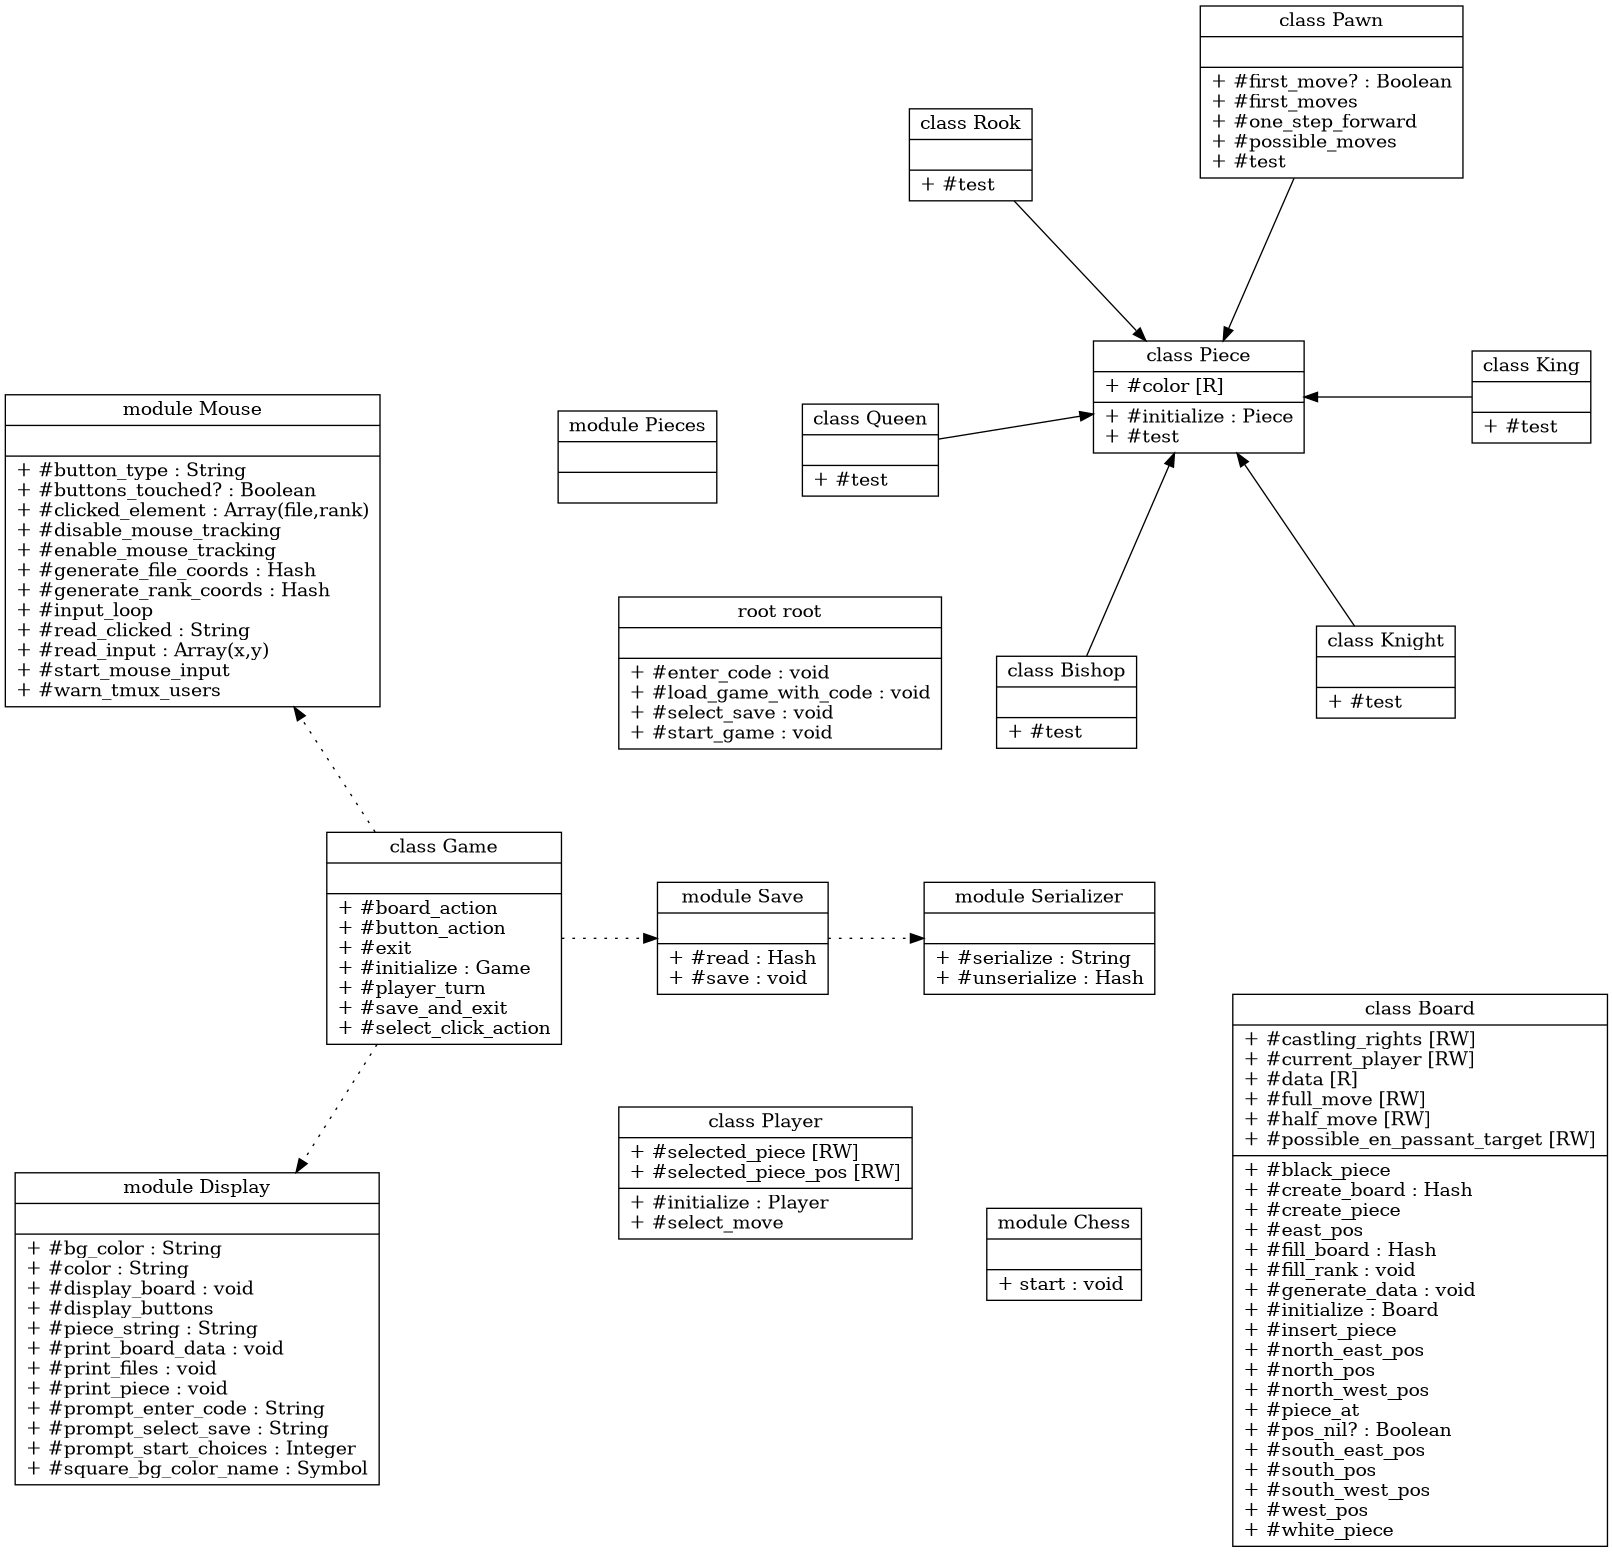
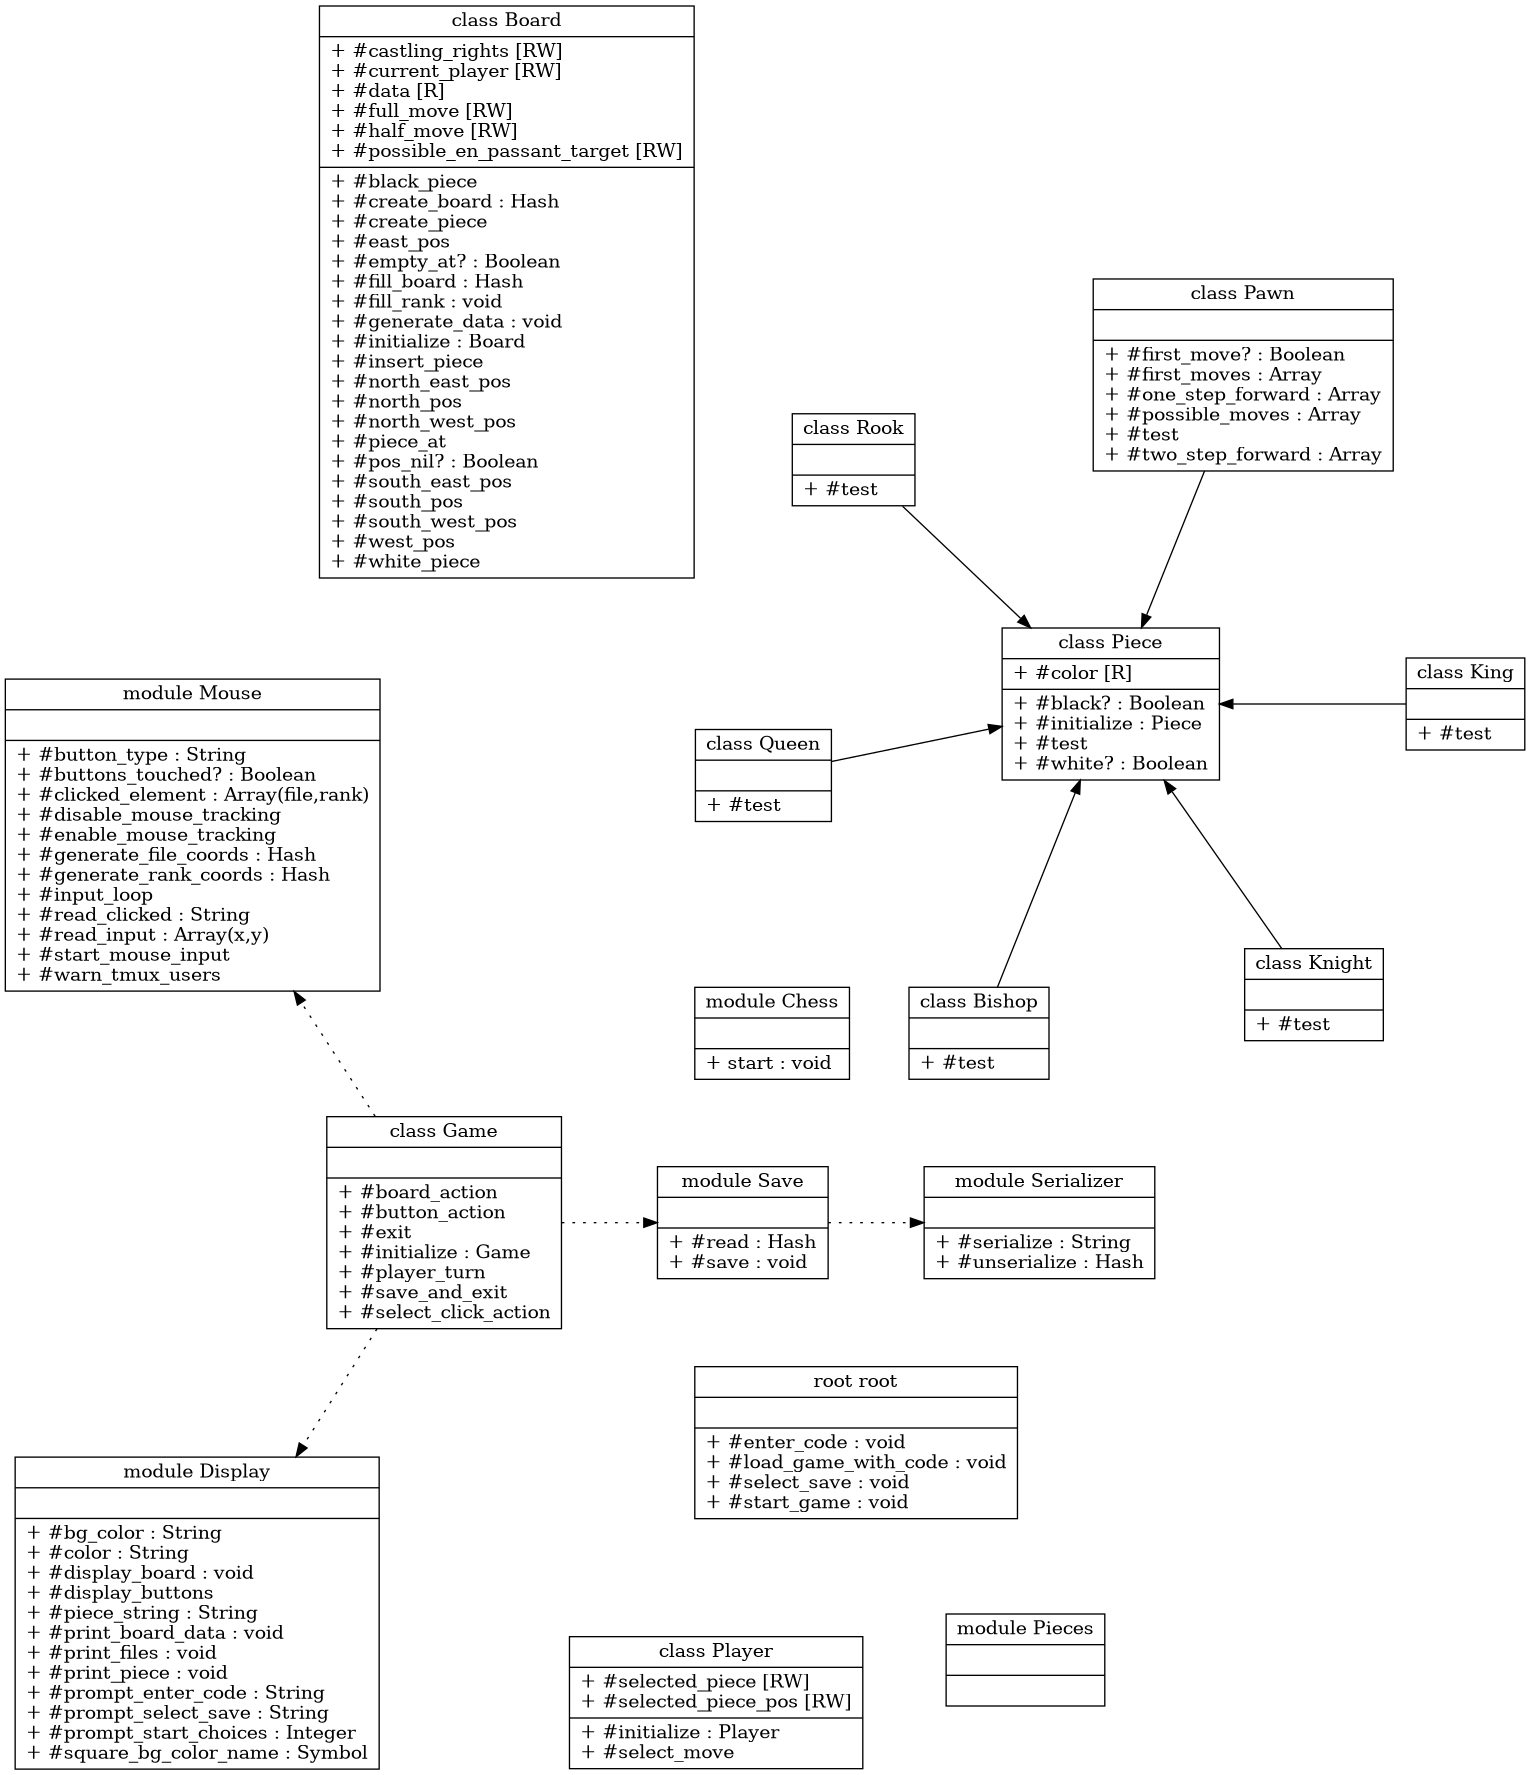
refactor(lib): modularize the the white? and black? color check and empty_board?

diff --git a/lib/chess/pieces/pawn.rb b/lib/chess/pieces/pawn.rb
@@ -10,6 +10,11 @@ module Chess
         puts 'hello world'
       end
 
+      # possible_moves of the pawn
+      # @example x and y are decomposed from array
+      #   possible_moves(board,['a',2])
+      # @param board [Chess::Board]
+      # @return [Array] moves
       def possible_moves(board, (file, rank))
         moves = []
         if first_move?(rank)
@@ -22,25 +27,48 @@ module Chess
         moves
       end
 
+      # checks if it's first move of pawn
+      # @param rank [Integer]
+      # @return [Boolean]
       def first_move?(rank)
-        (rank == 2 && @color == 'white') || (rank == 7 && @color == 'black')
+        (rank == 2 && white?) || (rank == 7 && black?)
       end
 
+      # creates all the possible first moves
+      # @param board [Chess::Board]
+      # @param file [String]
+      # @param rank [Integer]
+      # @return [Array] moves
       def first_moves(board, file, rank)
         moves = []
         moves + one_step_forward(board, file, rank)
+        # moves + two_step_forward(board, file, rank)
       end
 
+      # one step move of pawn
+      # @param board [Chess::Board]
+      # @param file [String]
+      # @param rank [Integer]
+      # @return [Array] moves
       def one_step_forward(board, file, rank)
         moves = []
-        if @color == 'white'
+        if white?
           north = board.north_pos(file, rank)
-          piece = board.piece_at(*north)
-          moves << north if piece != '' || !piece.nil?
+          moves << north if board.empty_at?(*north)
         else
           south = board.south_pos(file, rank)
-          moves << south if piece != '' || !piece.nil?
+          moves << south if board.empty_at?(*south)
         end
+        moves
+      end
+
+      # two step move of pawn
+      # @param board [Chess::Board]
+      # @param file [String]
+      # @param rank [Integer]
+      # @return [Array] moves
+      def two_step_forward(board, file, rank)
+        # TODO: implement blocking piece in between and en passant
       end
     end
   end

diff --git a/lib/chess/board.rb b/lib/chess/board.rb
@@ -151,5 +151,13 @@ module Chess
       shift_rank = 1
       @data[file][rank - shift_rank]
     end
+
+    # checks if a square is empty
+    # @param file [String]
+    # @param rank [Integer]
+    # @return [Boolean]
+    def empty_at?(file, rank)
+      piece_at(file, rank) == ''
+    end
   end
 end

diff --git a/lib/chess/pieces.rb b/lib/chess/pieces.rb
@@ -15,6 +15,16 @@ module Chess
       def test
         puts 'hello world'
       end
+
+      # checks if piece color is black
+      def black?
+        @color == 'black'
+      end
+
+      # checks if piece color is white
+      def white?
+        @color == 'white'
+      end
     end
   end
 end

diff --git a/lib/chess/board_pos.rb b/lib/chess/board_pos.rb
@@ -45,6 +45,7 @@ module Chess
       [(file.ord + 1).chr, rank - 1]
     end
 
+    # checks if a pos is nil value
     def pos_nil?((file, rank))
       piece_at(file, rank).nil?
     end

diff --git a/lib/chess/version.rb b/lib/chess/version.rb
@@ -2,5 +2,5 @@
 
 module Chess
   # VERSION following https://semver.org
-  VERSION = '0.17.0'
+  VERSION = '0.17.1'
 end
